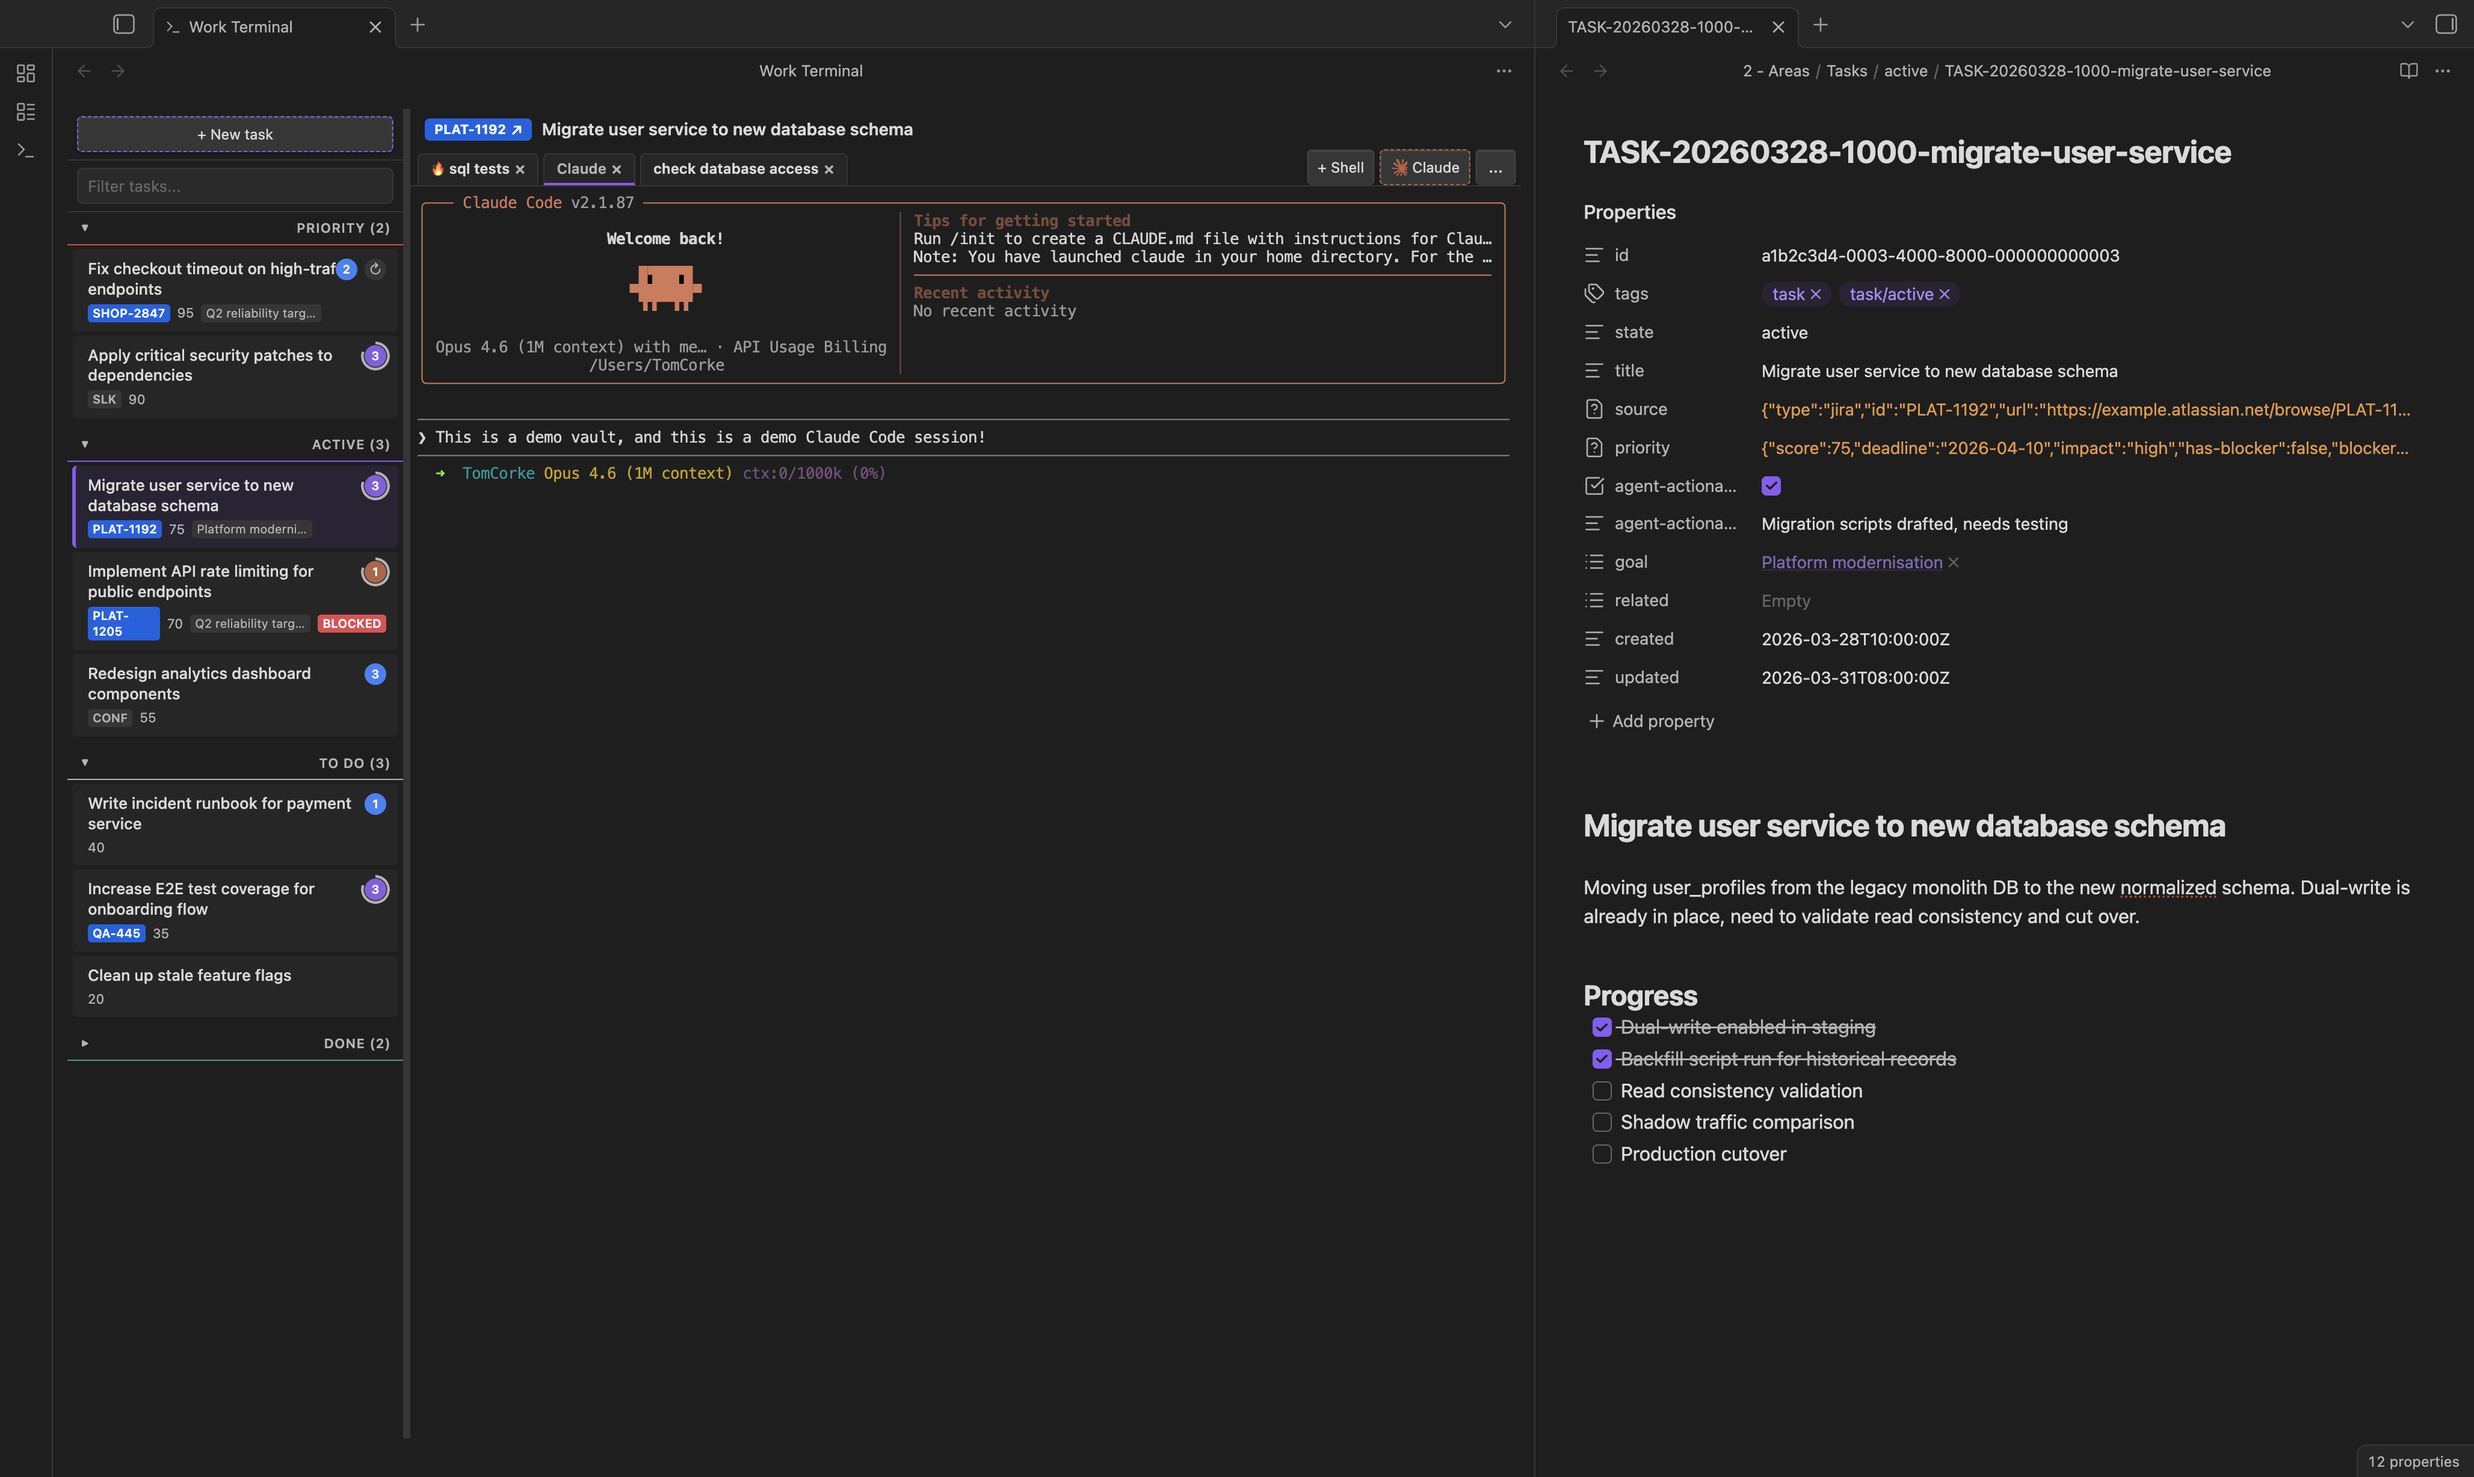
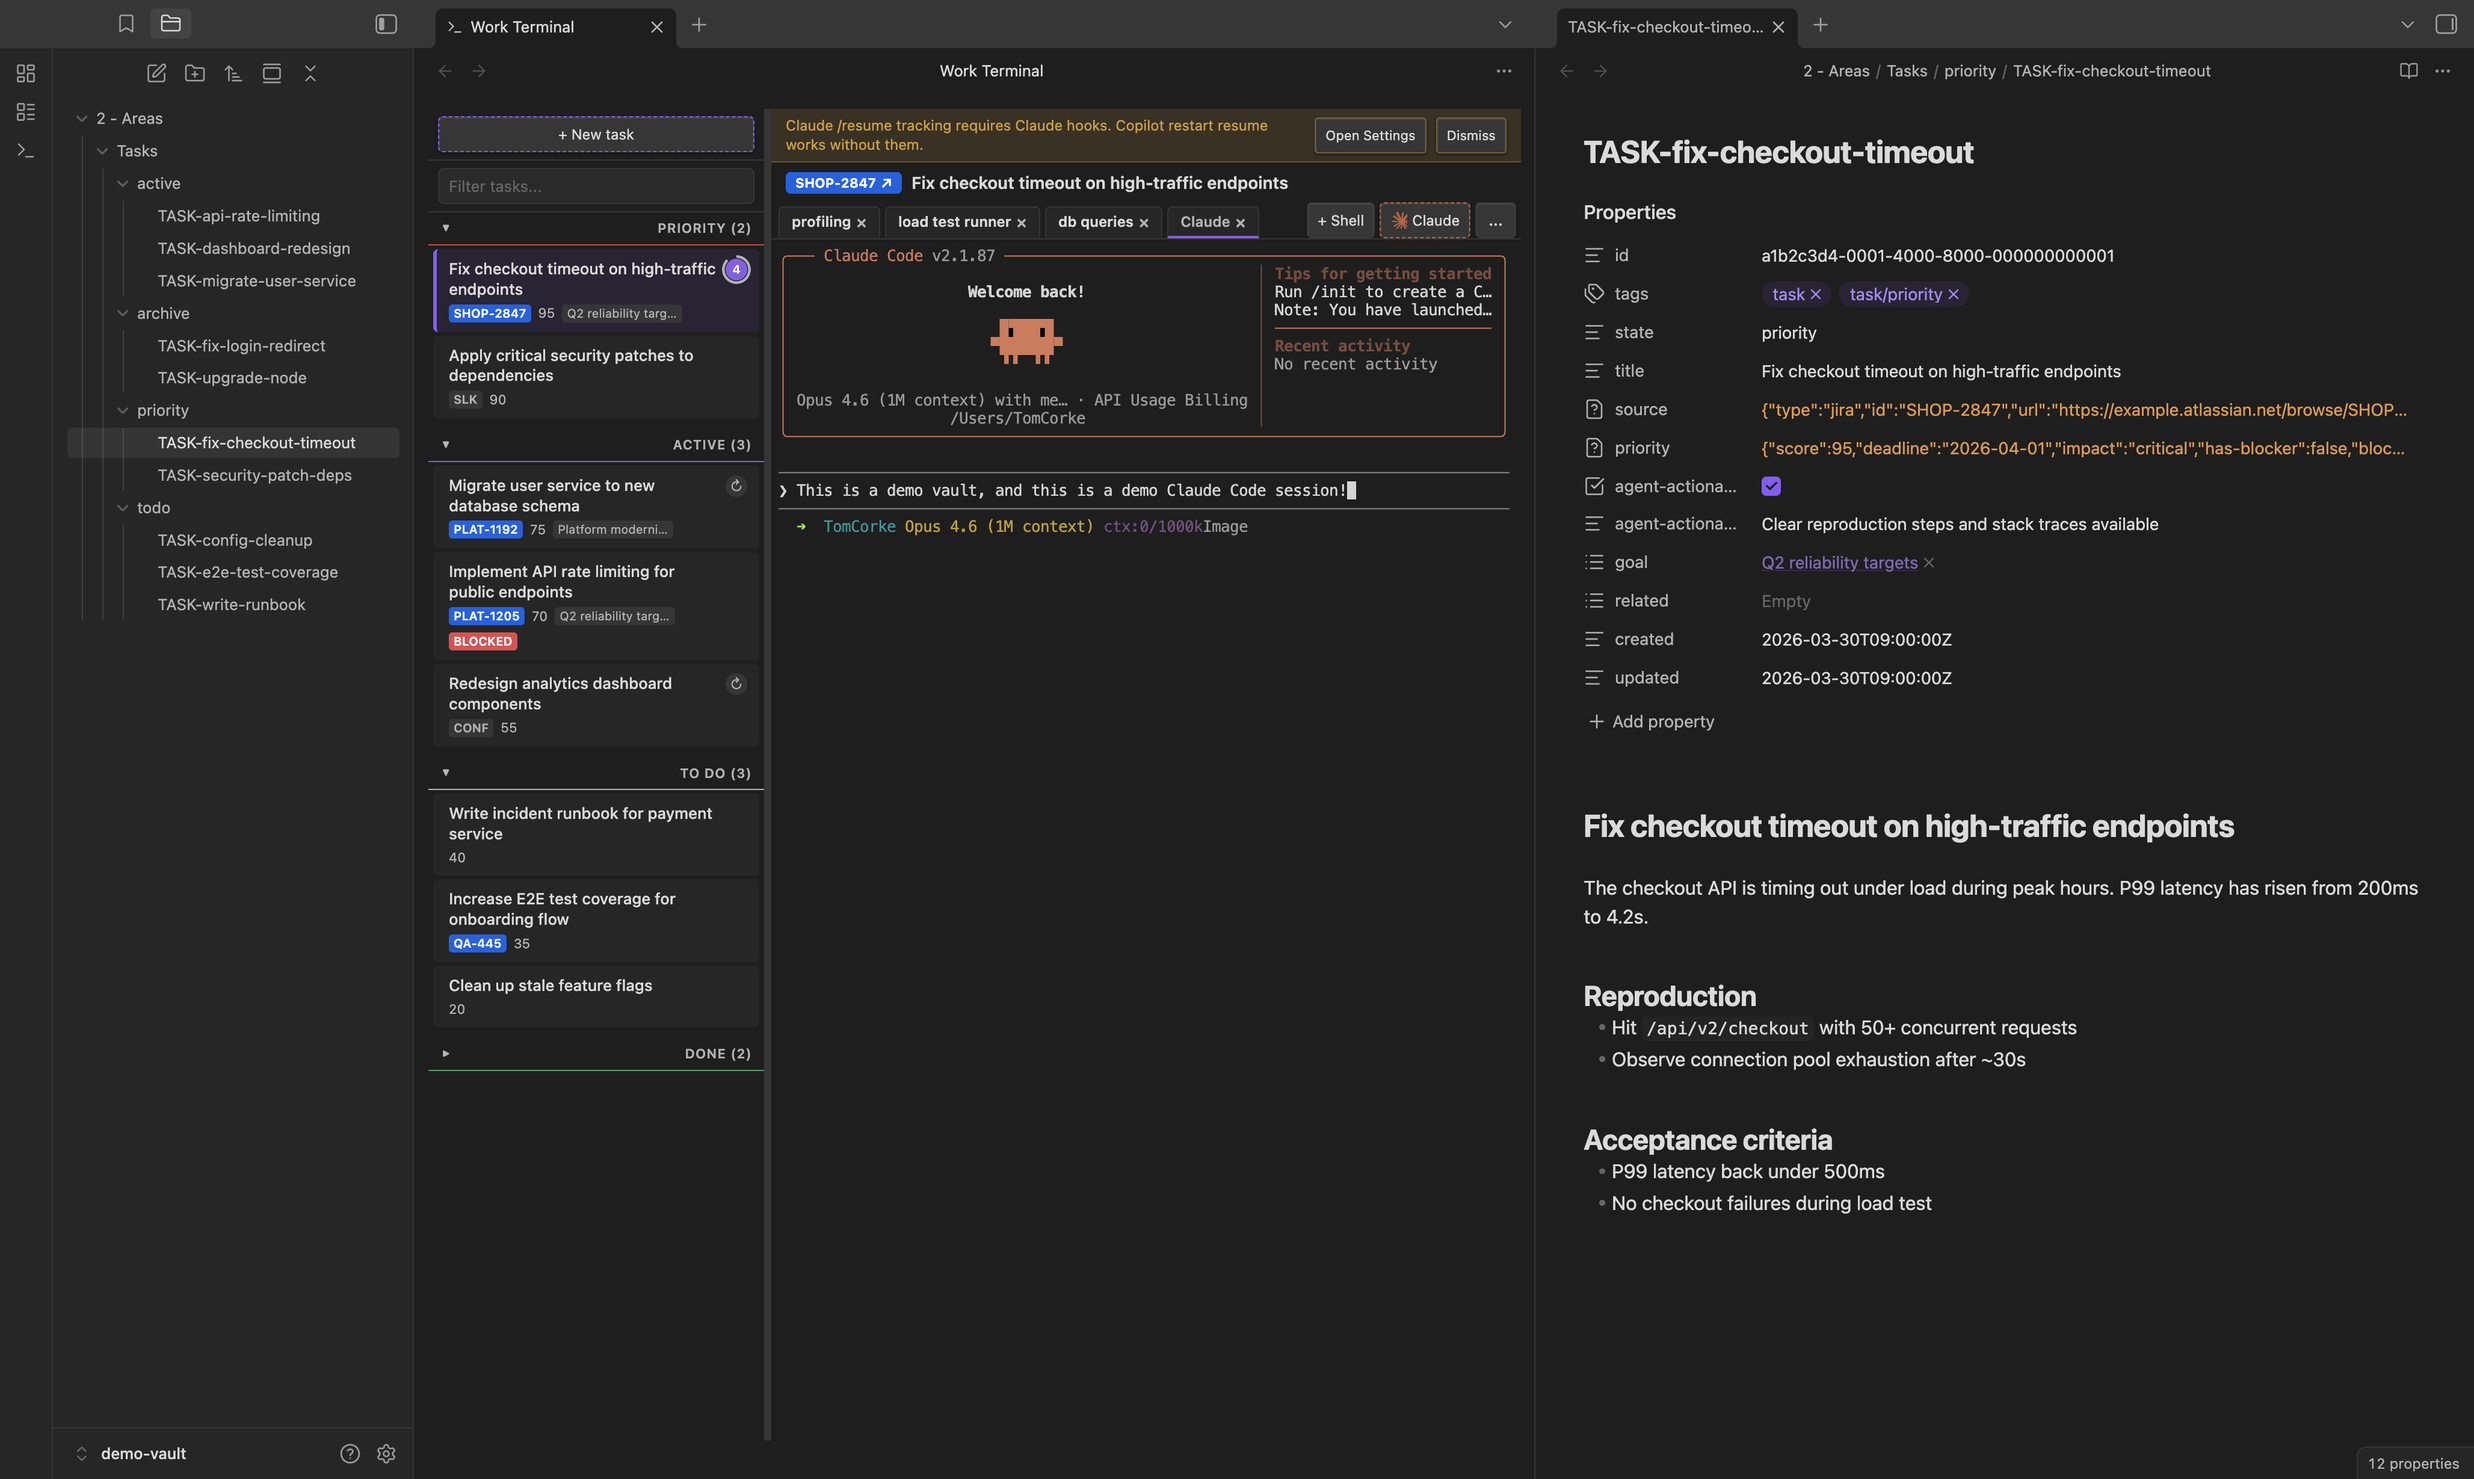
Regenerate screenshots with improved badges and 2x2 grid layout (#184)
Retake all four README screenshots from isolated demo vault on
latest main (includes card badge nowrap fix from #183):

- main-view: file explorer expanded showing task files, kanban board,
  Claude session with demo input, and detail panel
- agent-session: Copilot CLI session with demo input, sidebar collapsed
- task-creation: left panel only with prompt box expanded
- settings: modal only showing agent command configuration

Switch README layout from stacked full-width images to an HTML table
2x2 grid with captions for a more compact presentation.

diff --git a/README.md b/README.md
@@ -6,13 +6,16 @@ Obsidian plugin that turns your vault into a work item board with per-item tabbe
 
 <!-- Screenshots captured from isolated test vault with sample data -->
 
-![Main two-panel layout with kanban columns on the left showing priority, active, and to-do tasks with Jira badges, and tabbed shell sessions on the right with a live terminal](docs/screenshots/main-view.png)
-
-![Task selected with multiple named shell tabs (component storybook, figma token sync, chart migration) and session spawn buttons for Shell and Claude](docs/screenshots/agent-session.png)
-
-![Task creation prompt box expanded with text input, column selector set to Active, and Create button](docs/screenshots/task-creation.png)
-
-![Plugin settings panel showing guided tour reset, Claude resume hooks info, agent command configuration with binary validation, and default arguments](docs/screenshots/settings.png)
+<table>
+<tr>
+<td width="50%"><img src="docs/screenshots/main-view.png" alt="Main layout with file explorer, kanban board, Claude session with typed input, and task detail panel" width="100%"><br><sub>Kanban board with tabbed terminals and detail view</sub></td>
+<td width="50%"><img src="docs/screenshots/agent-session.png" alt="Copilot CLI session running in a terminal tab with typed prompt" width="100%"><br><sub>GitHub Copilot session with activity detection</sub></td>
+</tr>
+<tr>
+<td width="50%"><img src="docs/screenshots/task-creation.png" alt="Task creation prompt box with text input and column selector" width="100%"><br><sub>Task creation with column selector</sub></td>
+<td width="50%"><img src="docs/screenshots/settings.png" alt="Plugin settings showing agent commands, binary validation, and resume hooks" width="100%"><br><sub>Plugin settings and agent configuration</sub></td>
+</tr>
+</table>
 
 ## Features
 
